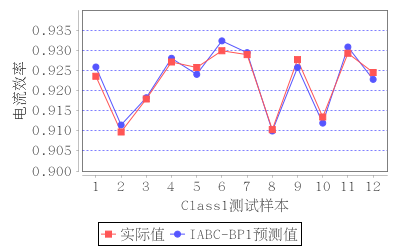
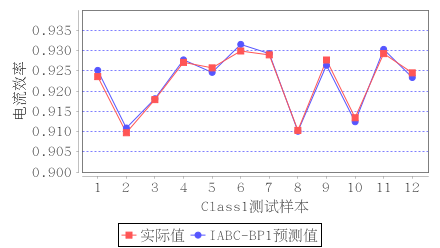
update plot

diff --git a/chart/src/main/java/dc/SubNetPlot.java b/chart/src/main/java/dc/SubNetPlot.java
@@ -28,12 +28,12 @@ public class SubNetPlot {
 		ChartFactory.setChartTheme(mChartTheme);
 		XYDataset dataset = createData();
 	
-		JFreeChart line = ChartFactory.createXYLineChart("", "Class3测试样本", "电流效率", dataset);
+		JFreeChart line = ChartFactory.createXYLineChart("", "Class2测试样本", "电流效率", dataset);
 		XYPlot mPlot = (XYPlot)line.getPlot();
 		//Y轴
 		NumberAxis numberAxis = (NumberAxis) mPlot.getRangeAxis();
 		numberAxis.setAutoRangeMinimumSize(0.01);
-		numberAxis.setRange(0.87, 0.895);
+		numberAxis.setRange(0.88, 0.92);
 		//X轴
 		NumberAxis domainAxis = (NumberAxis) mPlot.getDomainAxis();  
 		domainAxis.setAutoRangeMinimumSize(10);
@@ -51,7 +51,7 @@ public class SubNetPlot {
 	
 	public XYDataset createData(){
 //		String path = "dataset/cluster/705-abcfcm-47-plot.arff";
-		String path = "dataset/subnet/705-abcfcm-70-test-plot.arff";
+		String path = "dataset/subnet/705-abcfcm-47-test-plot.arff";
 		LoadData ld = new LoadData();
 		Instances data = ld.loadData(path);
 		int count = data.numInstances();
@@ -71,7 +71,7 @@ public class SubNetPlot {
 		
 		//BP预测值
 		Random rand = new Random(0);
-		XYSeries second = new XYSeries("IABC-BP3预测值");
+		XYSeries second = new XYSeries("IABC-BP2预测值");
 		
 		for(int i=0; i<plain.length; i++){
 			double value = plain[i];
